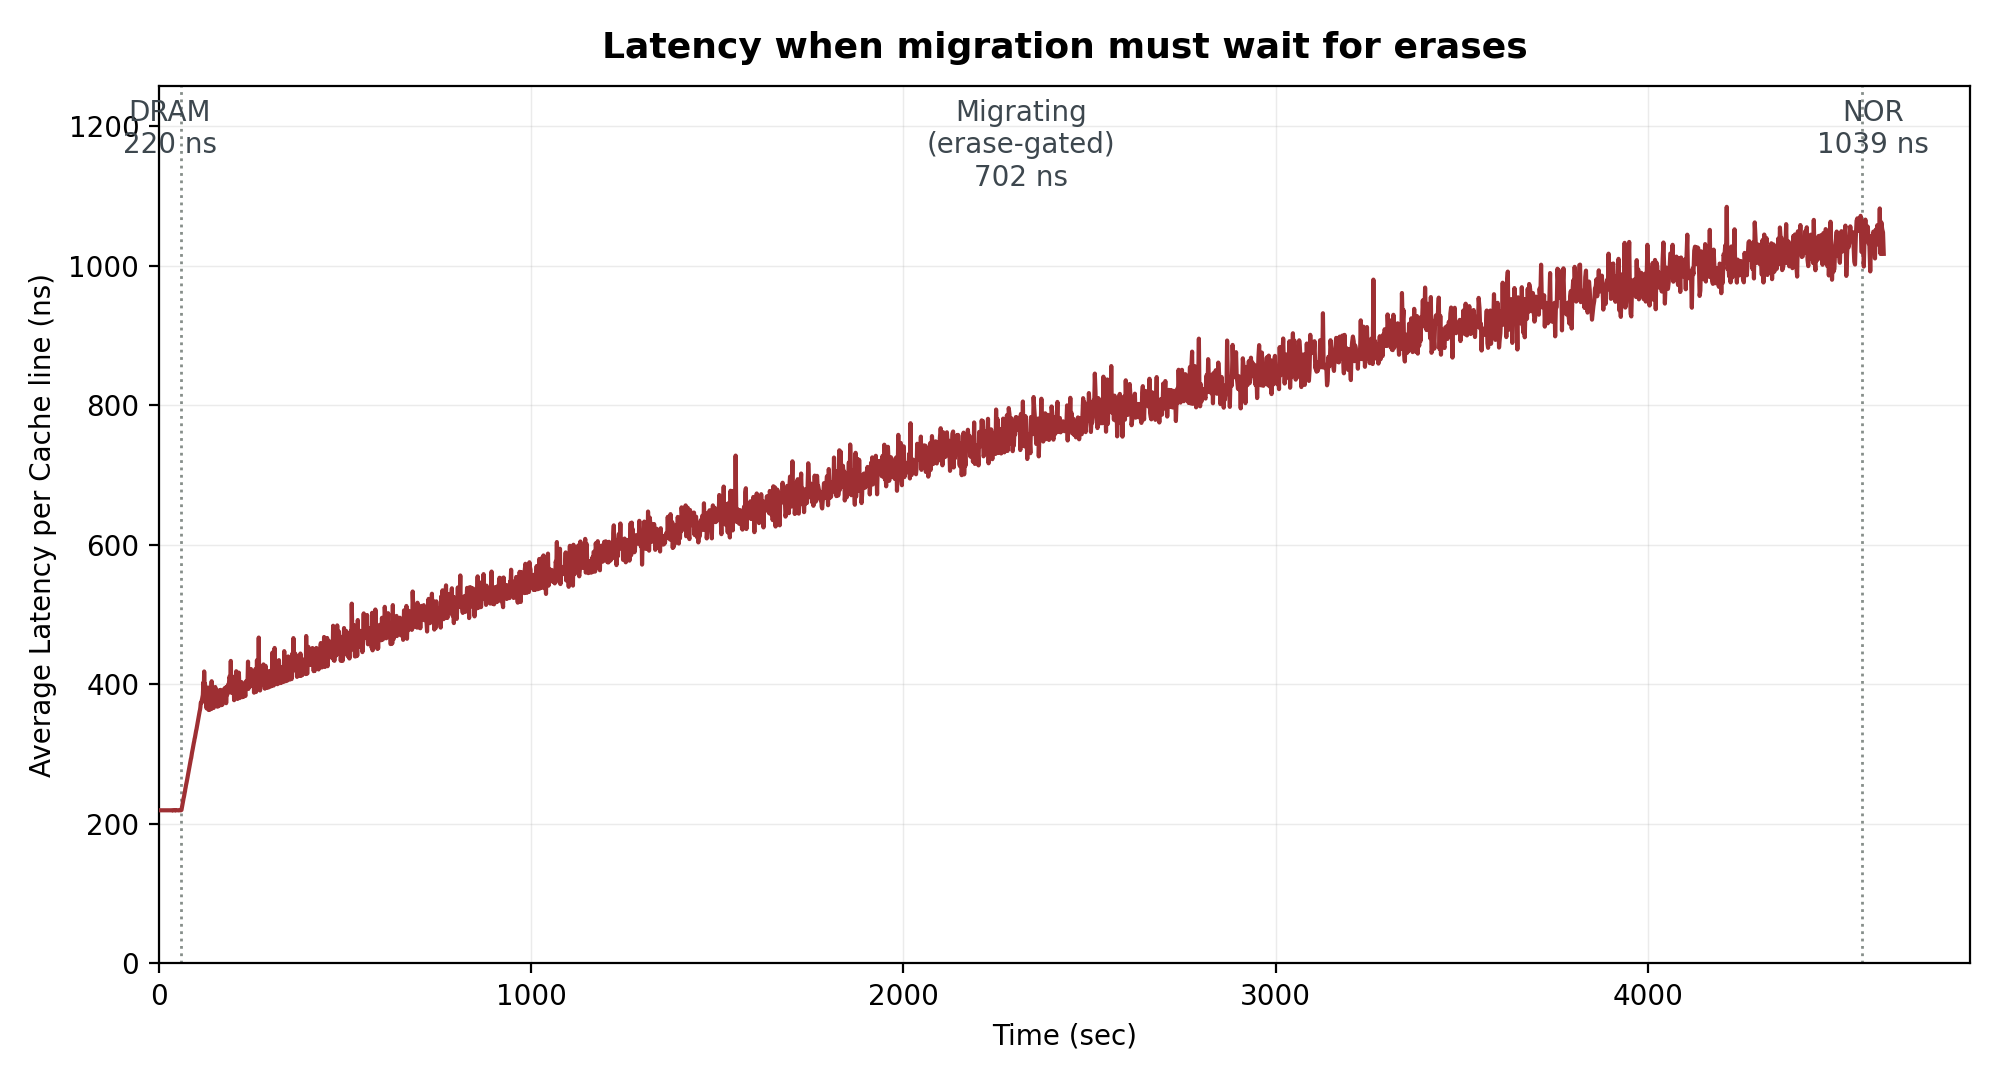
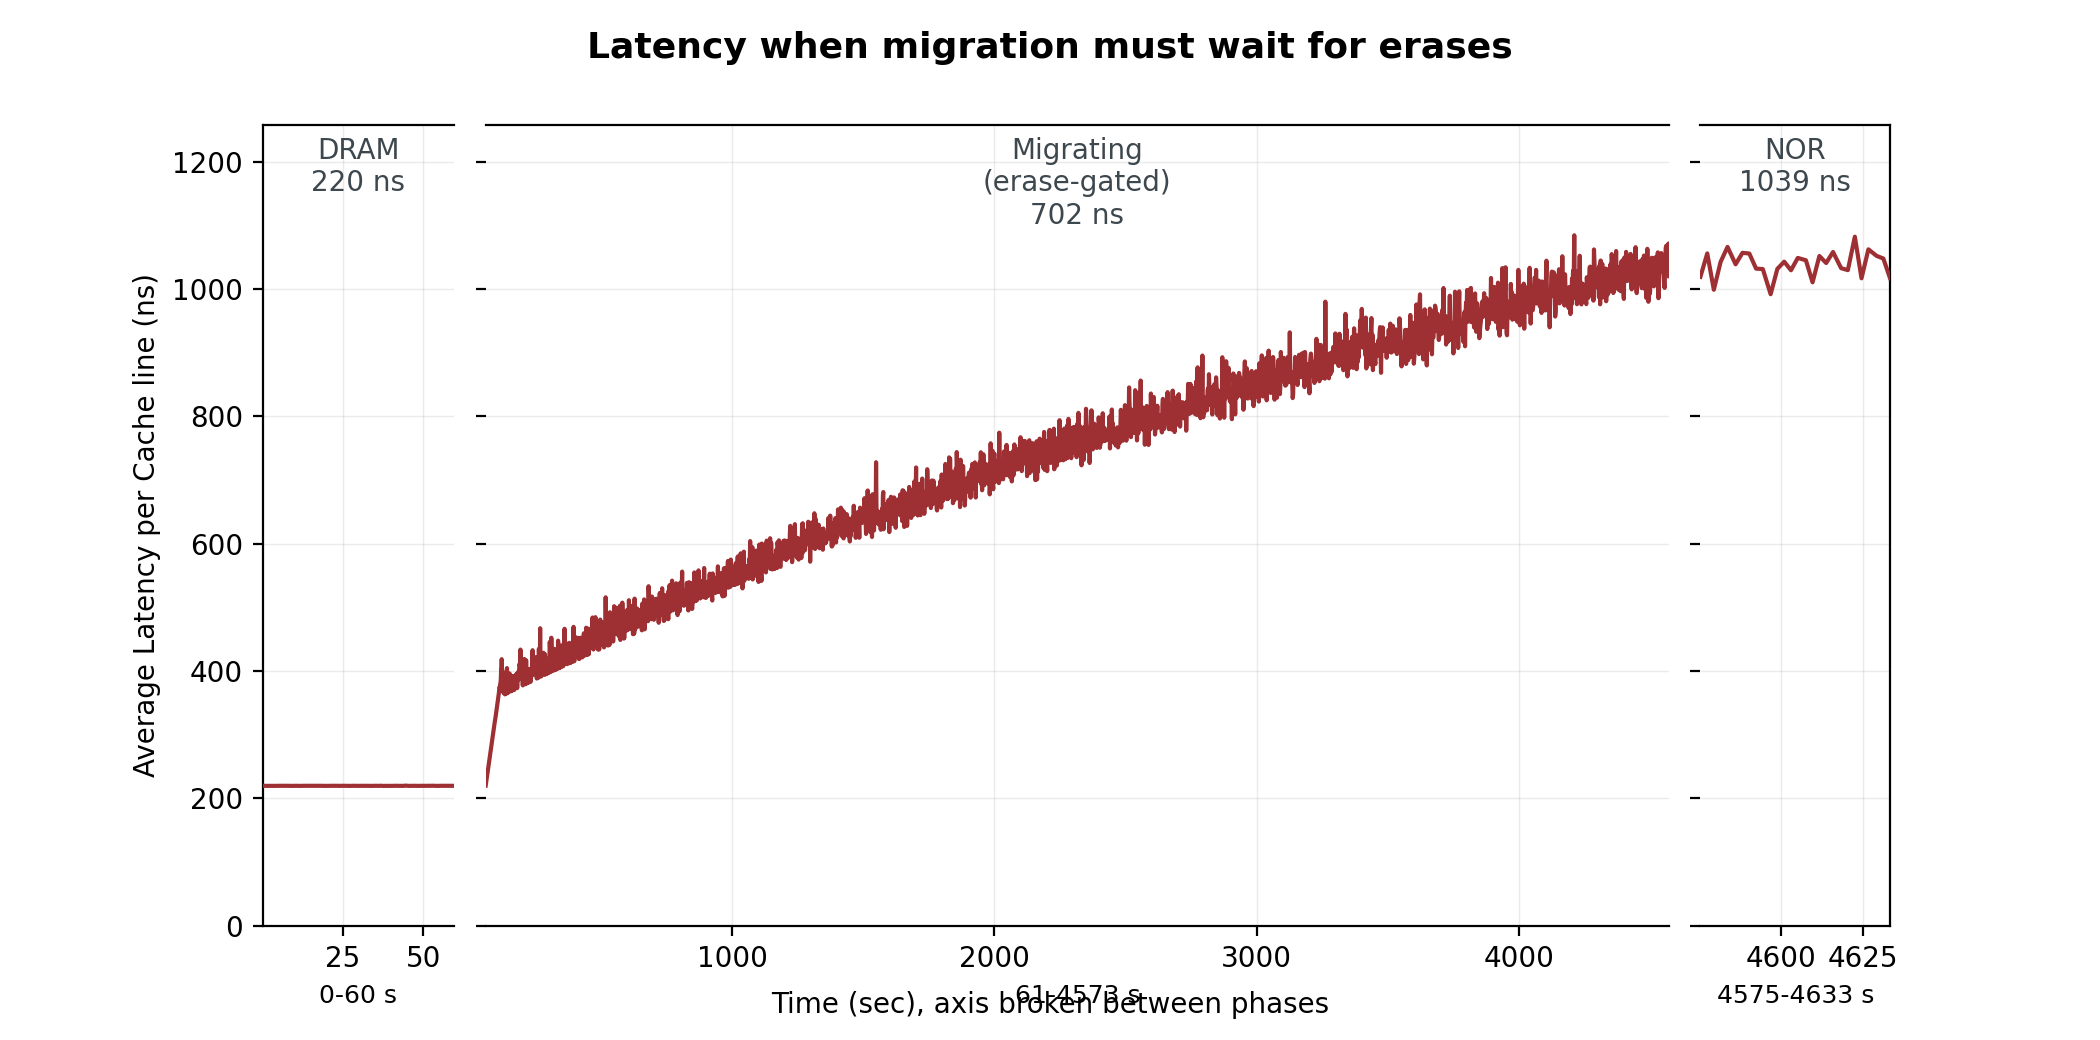
fig8: broken axis so all three phases are visible
The gated fill runs 4,512 s against 60 s at either end, so on one linear axis
the DRAM and NOR phases were 1.3% of the width each and the figure looked as
though only the migration had been measured. All three were -- 71 and 28
passes at the ends -- they had nowhere to be drawn.

Three panels sharing the y scale, each with its own time range and its span
printed beneath it, widths compressed as the 0.42 power of duration so the
fill still dominates without erasing the others.

diff --git a/scripts/plot_selftest.py b/scripts/plot_selftest.py
@@ -318,19 +318,43 @@ if r:
           if max(ph) == 3 else
           ((1, "DRAM"), (2, "Migrating"), (3, "Evicted"),
            (4, "Migrating\n(erase-gated)"), (5, "NOR")))
-    top = max(ns) * 1.16
-    for p_, lab in PH:
+    # A BROKEN AXIS. The gated fill runs 4,512 s against 60 s at either end,
+    # so on one linear axis the two settled phases are 1.3% of the width each
+    # and invisible -- the figure looks like it only measured the migration.
+    # Three panels sharing the y scale, each with its own time range, gives
+    # every phase room without distorting any of them.
+    import matplotlib.gridspec as gridspec
+    present = [(p_, lab) for p_, lab in PH if any(q == p_ for q in ph)]
+    widths = []
+    for p_, _ in present:
         xs = [x for x, q in zip(t, ph) if q == p_]
-        if not xs: continue
-        if p_ > 1:
-            ax.axvline(min(xs), color=C_GRID, ls=":", lw=1, zorder=1)
-        mean = sum(y for y, q in zip(ns, ph) if q == p_) / len(xs)
-        ax.annotate(f"{lab}\n{mean:.0f} ns", ((min(xs) + max(xs)) / 2, top * 0.985),
-                    ha="center", va="top", fontsize=10, color="#3d474e")
-    ax.plot(t, ns, "-", color=C_NOR, lw=1.5, solid_joinstyle="round", zorder=3)
-    ax.set_ylim(0, top); ax.set_xlim(left=0)
-    frame(ax, "Latency when migration must wait for erases",
-          "Time (sec)", "Average Latency per Cache line (ns)")
+        widths.append(max(1.0, (max(xs) - min(xs)) ** 0.42))   # compress, do not flatten
+    fig = plt.figure(figsize=(10.5, 5.2))
+    gs = gridspec.GridSpec(1, len(present), width_ratios=widths, wspace=0.06)
+    top = max(ns) * 1.16
+    axes = []
+    for k, (p_, lab) in enumerate(present):
+        a = fig.add_subplot(gs[k], sharey=axes[0] if axes else None)
+        axes.append(a)
+        xs = [x for x, q in zip(t, ph) if q == p_]
+        ys = [y for y, q in zip(ns, ph) if q == p_]
+        a.plot(xs, ys, "-", color=C_NOR, lw=1.5, solid_joinstyle="round", zorder=3)
+        a.set_xlim(min(xs), max(xs))
+        a.grid(alpha=.25, lw=.5)
+        a.annotate(f"{lab}\n{sum(ys)/len(ys):.0f} ns",
+                   (0.5, 0.985), xycoords="axes fraction", ha="center", va="top",
+                   fontsize=10, color="#3d474e")
+        a.set_xlabel(f"{min(xs):.0f}-{max(xs):.0f} s", fontsize=9)
+        if k:
+            a.tick_params(labelleft=False)
+            a.spines["left"].set_visible(False)
+        if k < len(present) - 1:
+            a.spines["right"].set_visible(False)
+    axes[0].set_ylim(0, top)
+    axes[0].set_ylabel("Average Latency per Cache line (ns)")
+    fig.suptitle("Latency when migration must wait for erases",
+                 fontsize=13, weight="semibold", y=0.97)
+    fig.supxlabel("Time (sec), axis broken between phases", fontsize=10, y=0.02)
     fig.tight_layout(); fig.savefig(f"{OUT}/fig8-worst-case.png", dpi=200)
     made.append("fig8-worst-case")
 
